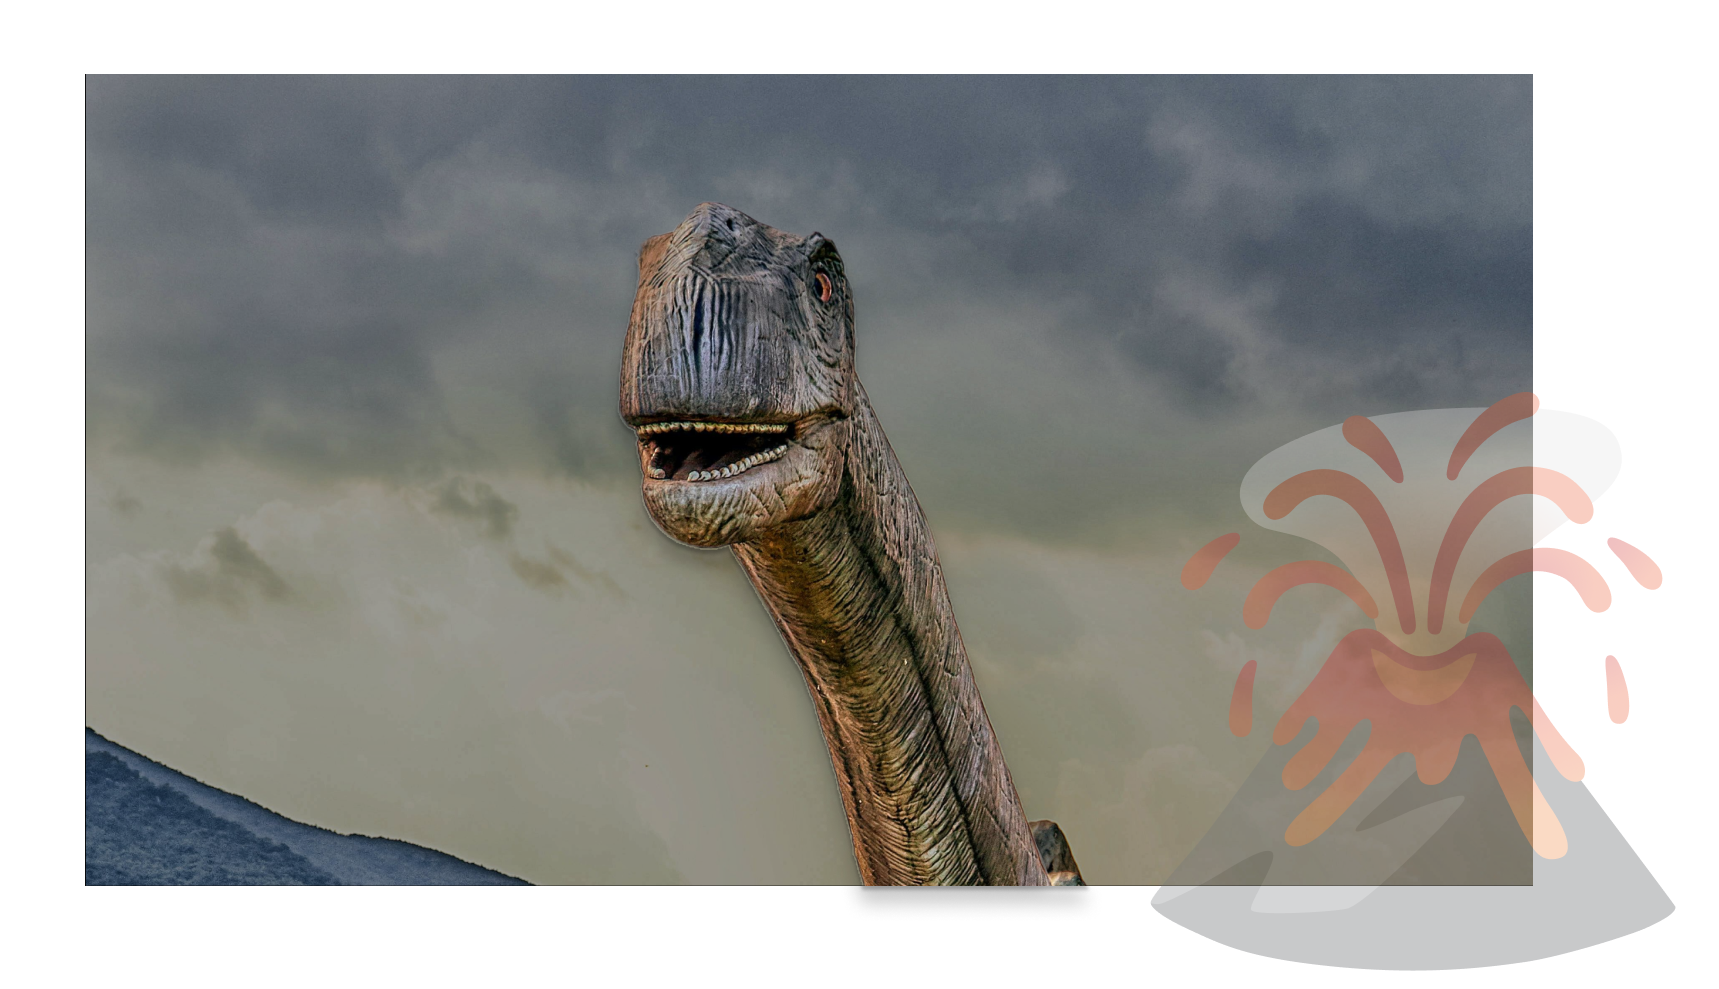
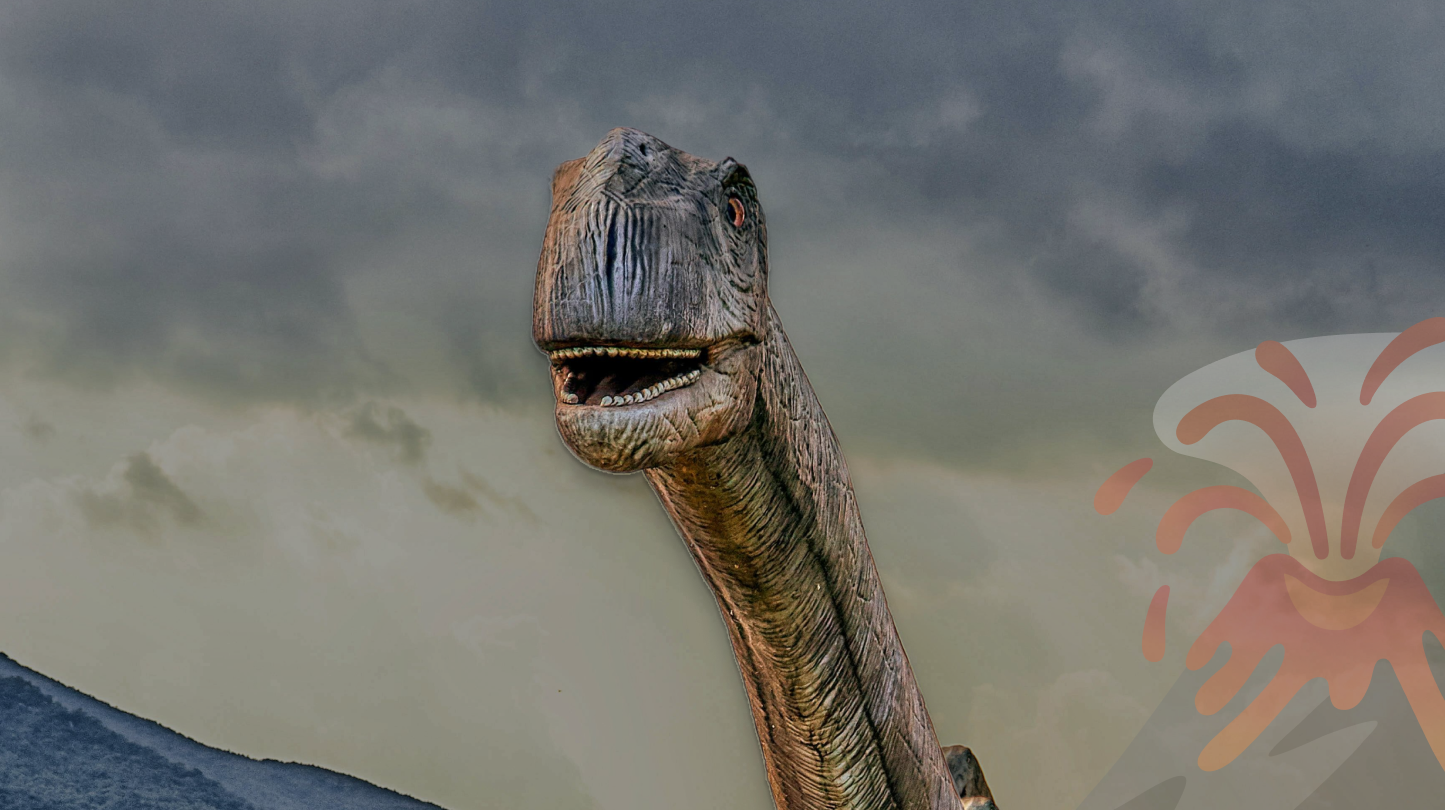
Fixed background

diff --git a/dinosaur-app/src/components/Header.jsx b/dinosaur-app/src/components/Header.jsx
@@ -5,7 +5,7 @@ import background from "./img/background.png";
 
 function Header() {
     return (
-        <div className="header bg-dark text-white" style={{ backgroundImage: `url(${background.png})`,
+        <div className="header bg-dark text-white" style={{ backgroundImage: `url(${background})`,
         backgroundPosition: "center", backgroundSize: "cover", backgroundRepeat: "no-repeat" }}>
             <div className="container">
                 <div className="row align-items-center">
